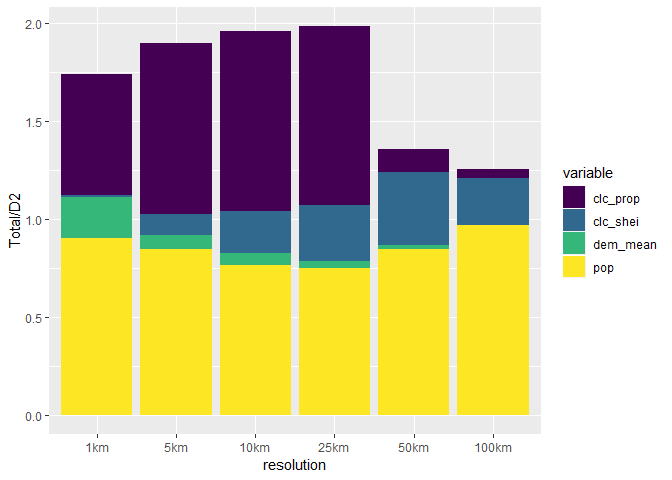
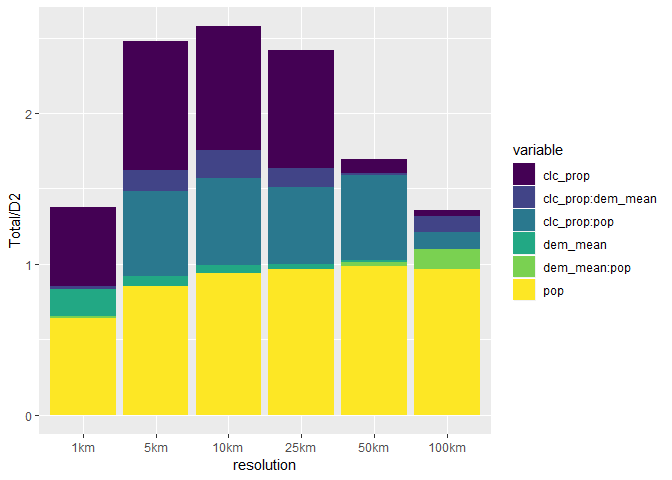
updated with improved models and hot/cold spot analysis

diff --git a/06_MENE_Models.md b/06_MENE_Models.md
@@ -150,18 +150,18 @@ Seems that it's population and proportion of non-built land covers that are the 
 Statistical Models
 ------------------
 
-To start, we will fit poisson GLMs with all three covariates and their first-order interactions as the full model.
+We will fit negative binomial GLMs (due to overdispersion) with proportion of non-built land cover (clc\_prop), mean elevation (dem\_mean) and population (pop) and their first-order interactions as the full model.
 
 ``` r
 fit_mod <- function(dat) {
-  glm(mene ~ clc_prop + clc_shei + dem_mean + pop,
-      data = dat,
-      family = "poisson")
+  glm(mene ~ clc_prop * dem_mean + clc_prop * pop + dem_mean * pop,
+      family = "poisson",
+      data = dat)
 }
 
 scale_cols <- function(x) {
   scale_this <- function(y) as.vector(scale(y))
-  #x <- mutate(x, pop = log10(pop + 1))
+  x <- x %>% mutate(pop = log(pop + 1))
   mutate_at(x, .vars = vars(-mene), .funs = funs(scale_this))
 }
 
@@ -223,9 +223,11 @@ ggplot(mod_D2, aes(x = resolution, y = D2, group = 1)) +
 
 ![](06_MENE_Models_files/figure-markdown_github/unnamed-chunk-1-1.png)
 
-Explanatory power of the model increases greatly between 1km and 5km resolutions (with increasing explanatory power as resolution increases, as to be expected).
+Explanatory power of the model increases greatly between 1km and 5km resolutions (with increasing explanatory power as resolution increases, as to be expected). Might be best to drop the 1km model.
 
 What about the relative importances?
+
+NB This plot shows the proportion of variance explained by each variable of the total variance explained. It's greater than 1 because there are shared explained variances
 
 ``` r
 ggplot(mod_stats, aes(x = resolution, y = Total/D2, fill = variable)) + 
@@ -235,7 +237,20 @@ ggplot(mod_stats, aes(x = resolution, y = Total/D2, fill = variable)) +
 
 ![](06_MENE_Models_files/figure-markdown_github/unnamed-chunk-2-1.png)
 
-Population explains the most variation at all resolutions. Proportion of non-built land covers explains a large amount of variation at all but the coarsest resolutions (50km, 100km). The importance of land-cover diversity increases with spatial resolution (decreasing again at 100km, but this probably related to high correlation with proportion and small sample size). Finally, topography does not have a huge importance in the models, but mean elevation explains the most variation at 1km, this then decreases until little to no variance is explained at 100km. Variation in topography explains the least variance at all resolutions.
+-   Importance of population increases slightly with spatial resolution. This explains the most variation in all cases
+-   Importance of topography decreases with spatial resolution
+-   Importance of non-built land covers decreases with spatial resolution (although increasing between 1km and 5km, but we may drop the 1km model)
+-   First-order interactions are most important at intermediate resolutions (in particular the interaction between proportion of non-built land covers and population - some concerns around correlation between these, particularly at 25km resolution)
+
+This one is without standardising by the total variance explained.
+
+``` r
+ggplot(mod_stats, aes(x = resolution, y = Total, fill = variable)) + 
+  scale_fill_viridis_d() + 
+  geom_bar(stat = "identity", position = "stack")
+```
+
+![](06_MENE_Models_files/figure-markdown_github/unnamed-chunk-3-1.png)
 
 What about the relationships?
 
@@ -247,7 +262,7 @@ ggplot(mod_stats, aes(x = resolution, y = coef)) +
   facet_wrap(~variable, nrow = 1)
 ```
 
-![](06_MENE_Models_files/figure-markdown_github/unnamed-chunk-3-1.png)
+![](06_MENE_Models_files/figure-markdown_github/unnamed-chunk-4-1.png)
 
 Some scale dependencies. Probably need to check they are not entirely statistical artefacts.
 
@@ -257,21 +272,7 @@ Bright & dark spots
 Following Frei et al. (2018) and Cinner et al. (2016), we calculate bright spots and dark spots. We define bright/dark spots as those where the observed value is +/- 1SD (of observed values) from the expected value.
 
 ``` r
-np <- st_read("~/DATA/ADMINISTRATIVE/national_parks_england/National_Parks_England.shp",
-              quiet = TRUE) %>%
-  st_transform(st_crs(study_ext_sf))
-# 
-# cities <- st_read("~/DATA/ADMINISTRATIVE/uk_cities/Major_Towns_and_Cities_December_2015_Boundaries.shp",
-#                   quiet = TRUE) %>% 
-#   st_transform(st_crs(study_ext_sf)) %>% 
-#   st_centroid %>% 
-#   filter(tcity15nm == "London")
-
-aonb <- st_read("~/DATA/ADMINISTRATIVE/aonb_england/Areas_of_Outstanding_Natural_Beauty_England.shp",
-                quiet = TRUE) %>%
-  st_transform(st_crs(study_ext_sf))
-
-mod_fitted <- mod %>% 
+bd_spots <- mod %>% 
   select(resolution, data, mod_fitted, mod_resid) %>% 
   unnest() %>% 
   group_by(resolution) %>% 
@@ -280,12 +281,27 @@ mod_fitted <- mod %>%
                                diff > sd(mene) ~ "Bright",
                                TRUE ~ "Neutral"))
 
+# potentially explanatory spatial layers
+# np <- st_read("~/DATA/ADMINISTRATIVE/national_parks_england/National_Parks_England.shp",
+#               quiet = TRUE) %>%
+#   st_transform(st_crs(study_ext_sf))
+# 
+# aonb <- st_read("~/DATA/ADMINISTRATIVE/aonb_england/Areas_of_Outstanding_Natural_Beauty_England.shp",
+#                 quiet = TRUE) %>%
+#   st_transform(st_crs(study_ext_sf))
+
+cities <- st_read("~/DATA/ADMINISTRATIVE/uk_cities/Major_Towns_and_Cities_December_2015_Boundaries.shp",
+                  quiet = TRUE) %>%
+  st_transform(st_crs(study_ext_sf)) %>%
+  st_centroid %>%
+  filter(tcity15nm %in% c("Birmingham", "Leeds", "London", "Manchester", "Newcastle upon Tyne"))
+
 ggplot() + 
-  geom_raster(data = mod_fitted, 
+  geom_raster(data = bd_spots, 
               aes(x = x, y = y, fill = bd_spots)) + 
   #geom_sf(data = np, colour = "black", fill = NA) + 
-  #geom_sf(data = cities, colour = "black") + 
   #geom_sf(data = aonb, colour = "black", fill = NA) + 
+  geom_sf(data = cities, colour = "black", fill = NA) + 
   geom_sf(data = study_ext_sf, fill = NA) + 
   facet_wrap(~resolution) + 
   scale_fill_manual(values = c("orange", "blue", "grey")) + 
@@ -294,36 +310,93 @@ ggplot() +
         axis.ticks = element_blank())
 ```
 
-![](06_MENE_Models_files/figure-markdown_github/unnamed-chunk-4-1.png)
+![](06_MENE_Models_files/figure-markdown_github/unnamed-chunk-5-1.png)
+
+Cities marked out: London, Birmingham, Manchester, Leeds, Newcastle upon Tyne.
 
 ``` r
-ggplot(mod_fitted, aes(x = mod_fitted, y = mene)) + 
+ggplot(bd_spots, aes(x = mod_fitted, y = mene)) + 
   geom_point(aes(colour = bd_spots)) + 
   scale_colour_manual(values = c("orange", "blue", "grey")) + 
   geom_smooth(method = "lm") + 
   facet_wrap(~resolution, scales = "free")
 ```
 
-![](06_MENE_Models_files/figure-markdown_github/unnamed-chunk-4-2.png)
+![](06_MENE_Models_files/figure-markdown_github/unnamed-chunk-6-1.png)
+
+Scale dependency in the % of bright/dark spots?
 
 ``` r
-group_by(mod_fitted, resolution) %>% 
+bd_summary <- group_by(bd_spots, resolution) %>% 
   summarise(Bright = sum(bd_spots == "Bright"),
             Dark = sum(bd_spots == "Dark"),
             Total = n(),
             `Bright %` = (Bright/Total)*100,
             `Dark %` = (Dark/Total)*100) %>% 
-  kable
+  gather(key, value, -resolution, -Bright, -Dark, -Total)
+
+ggplot(bd_summary, aes(x = resolution, y = value, colour = key, group = key)) + 
+  geom_point() + 
+  scale_colour_manual(values = c("orange", "blue", "grey")) + 
+  stat_summary(fun.y=sum, geom="line") + 
+  ylab("% of total area")
 ```
 
-| resolution |  Bright|  Dark|  Total|   Bright %|    Dark %|
-|:-----------|-------:|-----:|------:|----------:|---------:|
-| 1km        |      37|   436|   5153|  0.7180283|  8.461091|
-| 5km        |      69|   156|   2373|  2.9077118|  6.573957|
-| 10km       |      27|    66|   1120|  2.4107143|  5.892857|
-| 25km       |       4|     7|    254|  1.5748031|  2.755905|
-| 50km       |       2|     1|     78|  2.5641026|  1.282051|
-| 100km      |       0|     0|     24|  0.0000000|  0.000000|
+![](06_MENE_Models_files/figure-markdown_github/unnamed-chunk-7-1.png)
+
+Hot & cold spots
+----------------
+
+These are the areas of maximum and minimum service provision. I'm defining hot/cold spots as those cells in the top/bottom 5%.
+
+I'm not 100% convinced by this because of the skewed distribution.
+
+``` r
+hc_spots <- df %>% 
+  group_by(resolution) %>% 
+  mutate(hc_spots = case_when(mene < quantile(mene, 0.1) ~ "Cold",
+                               mene > quantile(mene, 0.9) ~ "Hot",
+                               TRUE ~ "Neutral"))
+```
+
+``` r
+ggplot() + 
+  geom_raster(data = hc_spots, 
+              aes(x = x, y = y, fill = hc_spots)) + 
+  #geom_sf(data = np, colour = "black", fill = NA) + 
+  #geom_sf(data = aonb, colour = "black", fill = NA) + 
+  geom_sf(data = cities, colour = "black", fill = NA) + 
+  geom_sf(data = study_ext_sf, fill = NA) + 
+  facet_wrap(~resolution) + 
+  scale_fill_manual(values = c("blue", "orange", "grey")) + 
+  theme(axis.title = element_blank(), 
+        axis.text = element_blank(),
+        axis.ticks = element_blank())
+```
+
+![](06_MENE_Models_files/figure-markdown_github/unnamed-chunk-9-1.png)
+
+Problem in that coastal areas come out as cold spots, but that's an area thing. Might need to remove cells which are not 100% on land.
+
+Scale dependency in the % of hot/cold spots?
+
+``` r
+hc_summary <- group_by(hc_spots, resolution) %>% 
+  summarise(Hot = sum(hc_spots == "Hot"),
+            Cold = sum(hc_spots == "Cold"),
+            Total = n(),
+            `Hot %` = (Hot/Total)*100,
+            `Cold %` = (Cold/Total)*100) %>% 
+  gather(key, value, -resolution, -Hot, -Cold, -Total)
+
+ggplot(hc_summary, aes(x = resolution, y = value, colour = key, group = key)) + 
+  geom_point() + 
+  scale_colour_manual(values = c("blue", "orange", "grey")) + 
+  stat_summary(fun.y=sum, geom="line") + 
+  ylab("% of total area")
+```
+
+![](06_MENE_Models_files/figure-markdown_github/unnamed-chunk-10-1.png)
 
 References
 ----------
